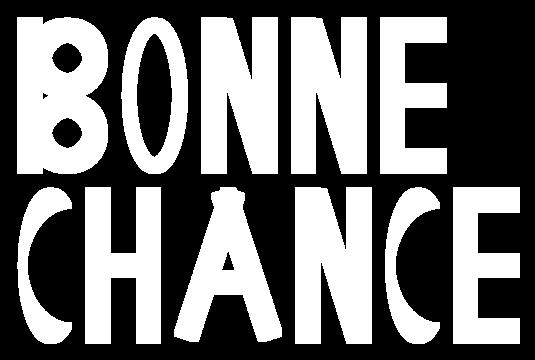
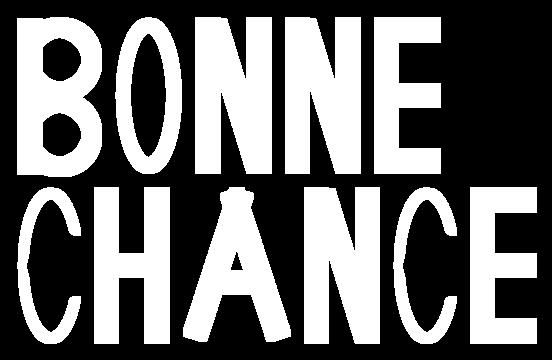
Amélioration des lettres

diff --git a/src/main/java/Letter/LetterFactory.java b/src/main/java/Letter/LetterFactory.java
@@ -54,17 +54,17 @@ public final class LetterFactory {
         Rectangle vertical = new Rectangle(stripeThickness, maxHeight);
 
         // cercle du bas
-        Circle down = new Circle(halfMaxHeight/2);
+        Circle down = new Circle(halfMaxHeight/1.9);
         // cercle du haut
-        Circle up = new Circle(halfMaxHeight/2);
+        Circle up = new Circle(halfMaxHeight/1.9);
         // cercle pour faire le vide
-        Circle empty = new Circle(halfMaxHeight/2-stripeThickness);
+        Circle empty = new Circle(halfMaxHeight/3);
 
         down.removeAll(empty.getCoords());
         up.removeAll(empty.getCoords());
 
-        Point2d translate_down = new Point2d((halfMaxHeight/2.0), halfMaxHeight/2.0);
-        Point2d translate_up = new Point2d((halfMaxHeight/2.0), -halfMaxHeight/2.0 );
+        Point2d translate_down = new Point2d((halfMaxHeight/2.5), halfMaxHeight/2.0);
+        Point2d translate_up = new Point2d((halfMaxHeight/2.5), -halfMaxHeight/2.0);
 
         down.translate(down.getCoords(), translate_down);
         up.translate(up.getCoords(), translate_up);
@@ -84,12 +84,15 @@ public final class LetterFactory {
         BaseShape c = new BaseShape();
         // grande ellipse
         Ellipse first = new Ellipse(halfMaxWidth, halfMaxHeight);
-        // petite ellipse
-        Ellipse empty = new Ellipse(halfMaxWidth + 15, halfMaxHeight - 15);
-        Point2d translate_empty = new Point2d(halfMaxWidth / 2 + stripeThickness/5, 0.0);
-        empty.translate(empty.getCoords(), translate_empty);
+        // cercle vide
+        Circle empty1 = new Circle(37.0);
+        Point2d translate_empty1 = new Point2d(halfMaxWidth / 4 + stripeThickness/7, 0.0);
+        empty1.translate(empty1.getCoords(), translate_empty1);
+        //Ellipse vide
+        Ellipse empty2 = new Ellipse(halfMaxWidth - 5, halfMaxHeight- 5);
 
-        first.removeAll(empty.getCoords());
+        first.removeAll(empty1.getCoords());
+        first.removeAll(empty2.getCoords());
 
         c.addAll(first.getCoords());
 
